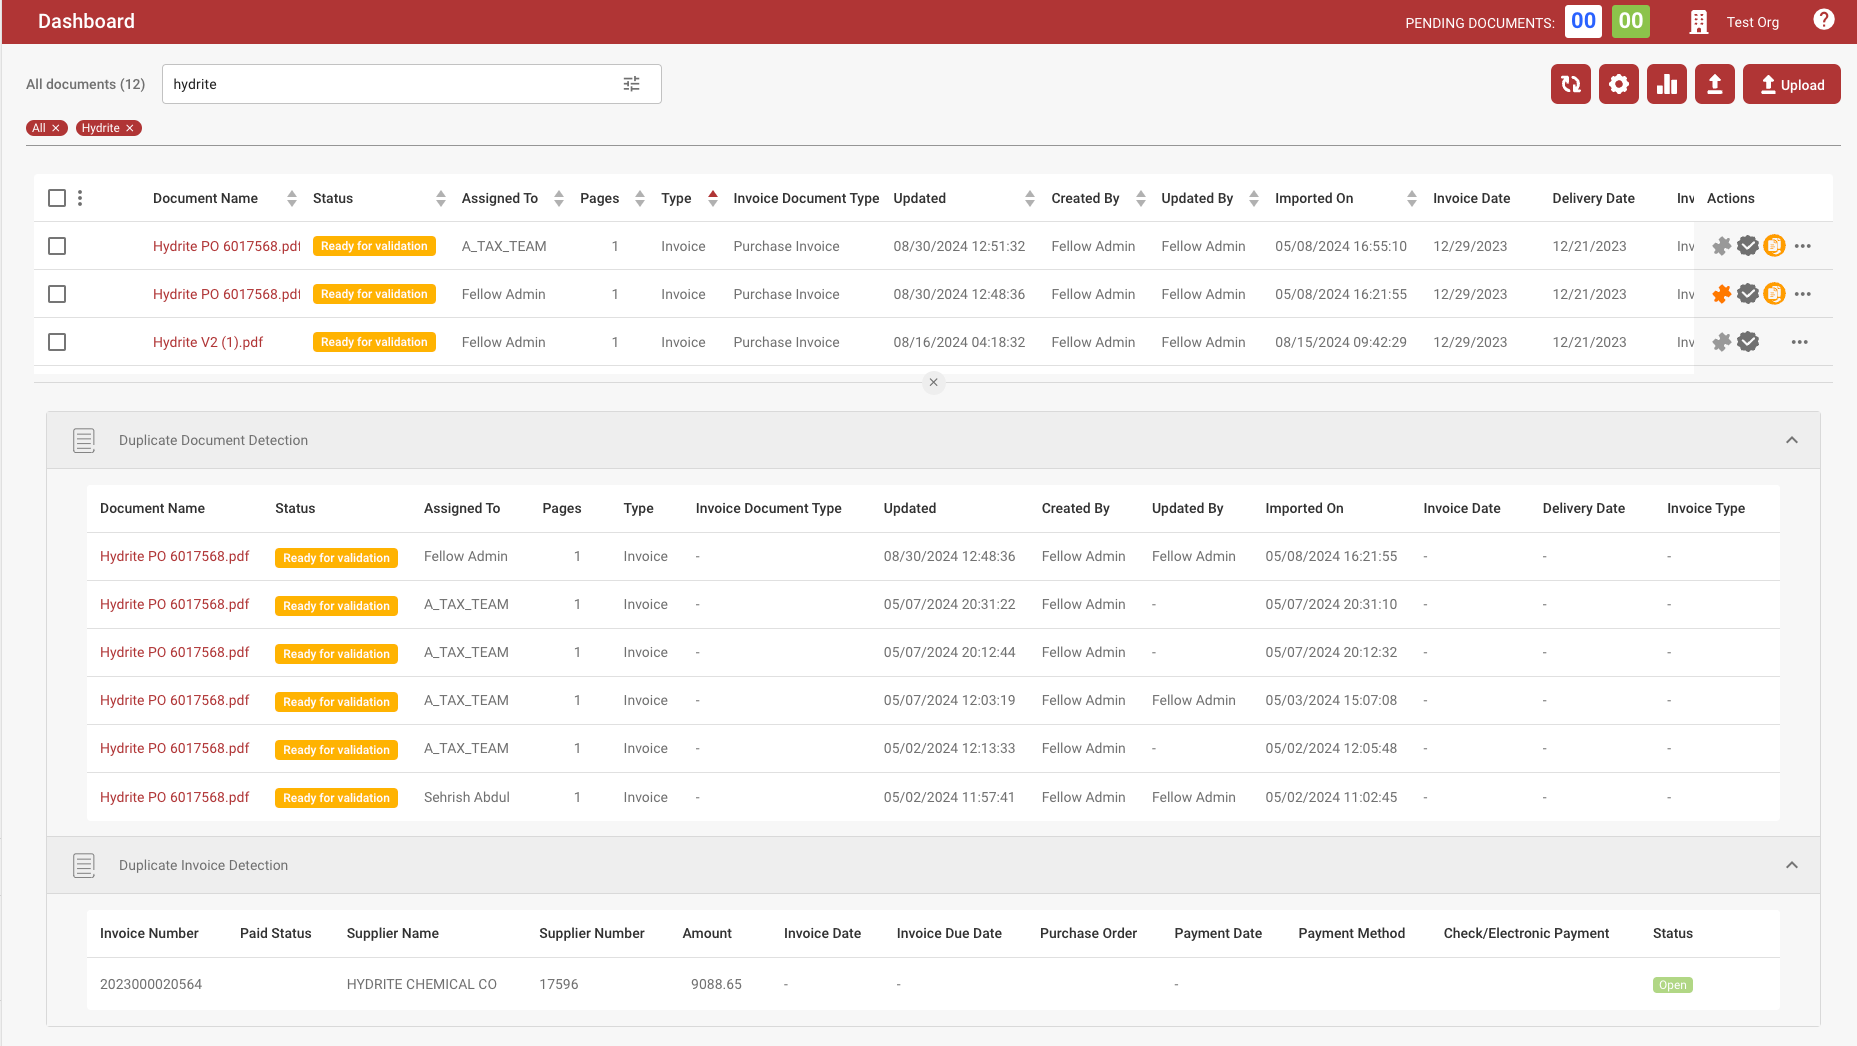
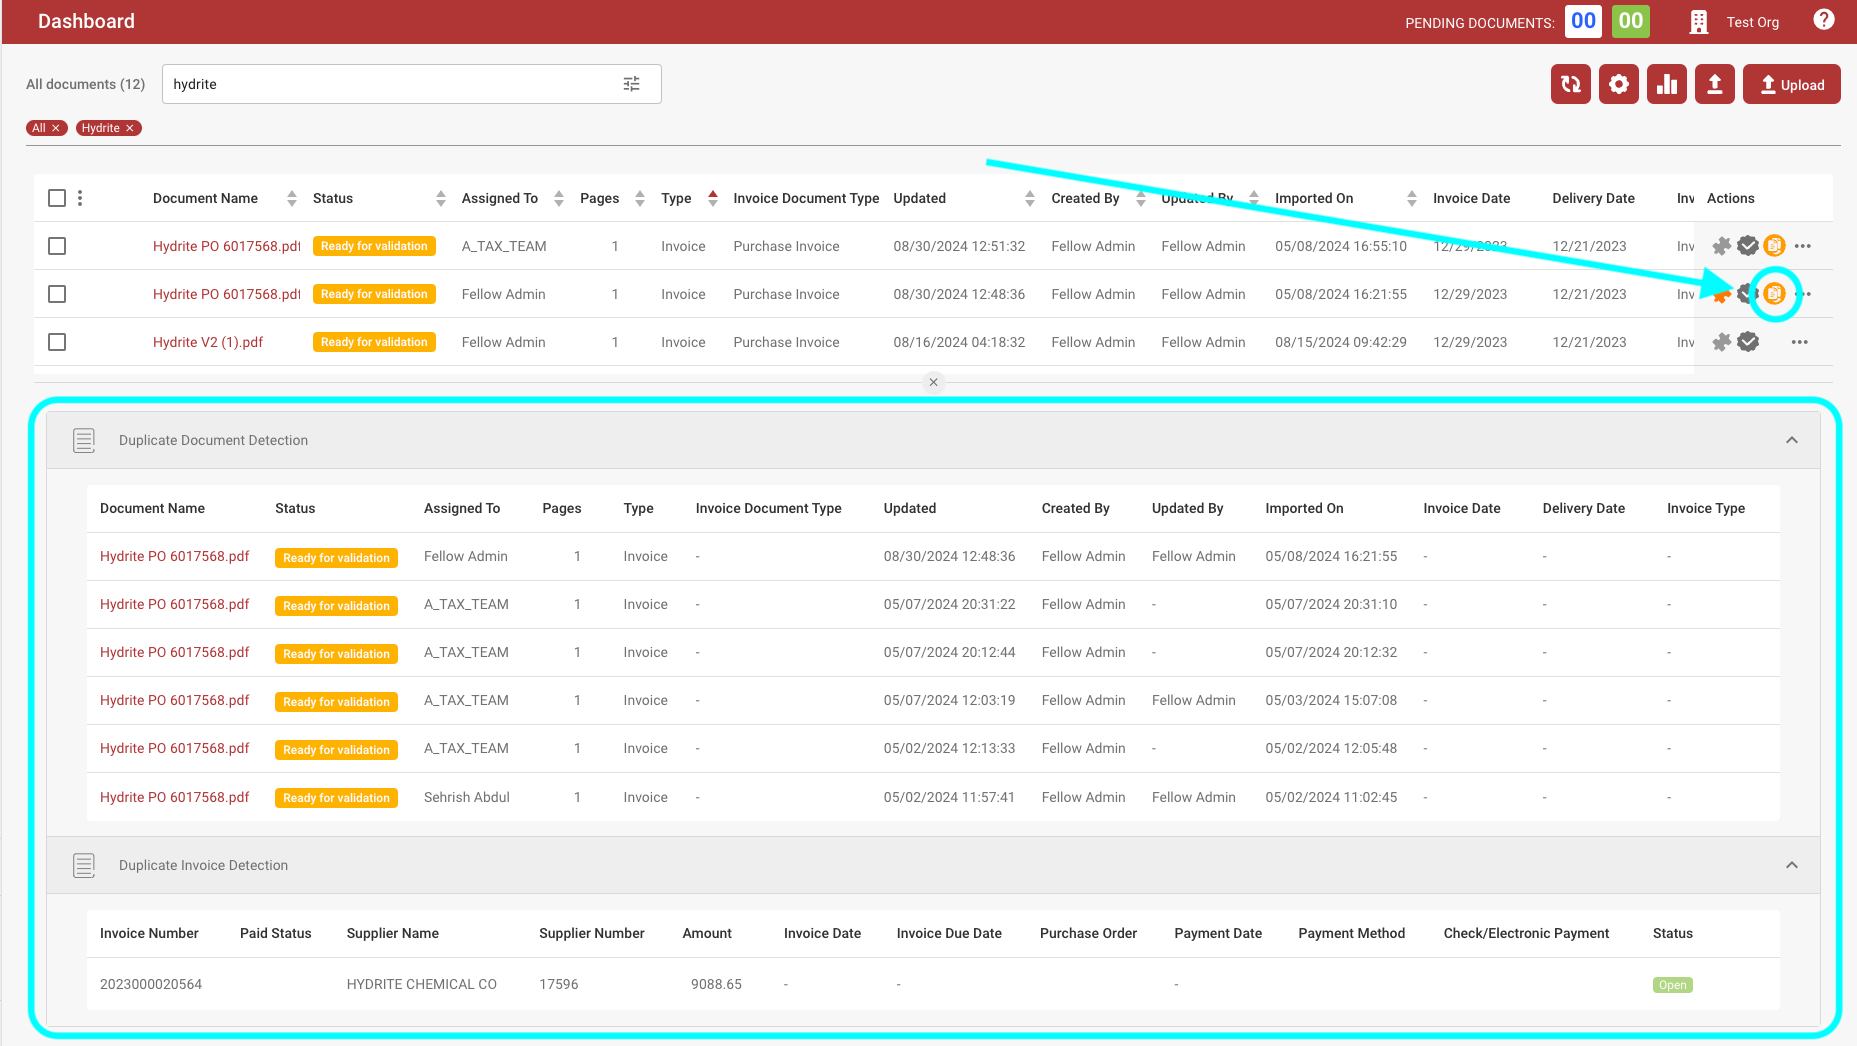
GITBOOK-570: No subject

diff --git a/readme/end-user-section/dashboard/viewing-duplicate-documents.md b/readme/end-user-section/dashboard/viewing-duplicate-documents.md
@@ -8,16 +8,20 @@ Go to _Settings → Document Types → Invoice → More Settings_ as shown in th
 
 The user has two options for detecting duplicate invoices:
 
-1. **Duplicate Document Detection** – This option checks for duplicate documents uploaded in DocBits
-2.  **Duplicate Invoice Detection** – This option requires _Supplier Invoices_ to be synced from Infor to DocBits for duplicate detection
+1. **Duplicate Document Detection** \
+   This feature checks for duplicate documents uploaded to DocBits based on the selected criteria. If the selected criteria match across documents, the system will flag the document as a duplicate.
+2.  **Duplicate Invoice Detection**\
+    This feature requires Supplier Invoices to be synced from Infor to DocBits. It compares the invoice numbers in the DocBits invoice dashboard with those in Infor. If the same invoice number is uploaded more than once, it will be flagged as a duplicate.
 
-    **NOTE**: Using the **Duplicate Invoice Detection** feature will result in an additional credit charge.
+    <mark style="color:red;">**NOTE**</mark><mark style="color:red;">:</mark> Using the **Duplicate Invoice Detection** feature will result in an additional credit charge.
 
 Once the setting is turned on the user can select the criteria for duplicate detection
 
 ## Duplicate Invoices on Dashboard
 
 Once Duplicate Detection is enabled in the settings, the dashboard will display an icon for any invoices identified as duplicates based on the specified criteria. Clicking this icon will open the duplicate records in a split-screen view for easy comparison
+
+<figure><img src="../../.gitbook/assets/duplicate_invoice handling2 (1).png" alt=""><figcaption></figcaption></figure>
 
 <figure><img src="../../.gitbook/assets/duplicate_invoice handling2.png" alt=""><figcaption></figcaption></figure>
 
